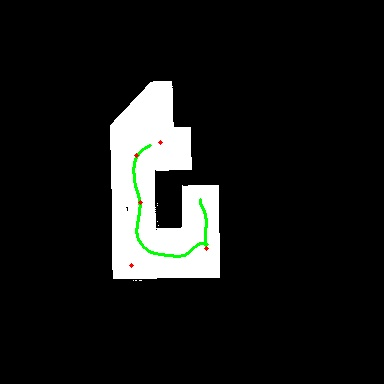
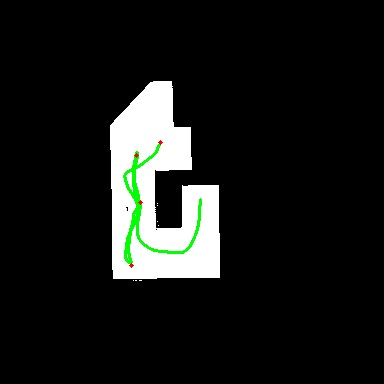
update

Changed region(s): [[0.3125, 0.375, 0.5625, 0.6875]]

diff --git a/turtlebot3_67301/scripts/assignment_2.py b/turtlebot3_67301/scripts/assignment_2.py
@@ -195,7 +195,6 @@ def subcribe_laser(agent_id=0, callback=None):
 def get_vel_publisher(agent_id=0):
     return rospy.Publisher('tb3_{}/cmd_vel'.format(agent_id), Twist, queue_size=10)
 
-
 def to_map_img_point(x, y):
     return int((y-global_map_origin[1])/0.05), int((x-global_map_origin[0])/0.05)
 
@@ -390,15 +389,16 @@ def competitive_cleaning(agent_id=0, path_based_dist=True):
                 mine.append(dirt_pos)
 
         goals = mine + his # first clean more confident dirts
-        for g in goals:
-            rival_goal = get_rival_goal(1-agent_id)
-            if rival_goal and distance_compute(g, np.array(rival_goal)) < 0.5 and closer_dirt_map[(g[0], g[1])] != agent_id:
-                # skip an impossible goal
-                rospy.loginfo('agent {} skipping impossible goal.'.format(agent_id))
-                continue
-            x, y = g
-            multi_move(x, y, agent_id)
-            update_dirt_list()
+        # for g in goals:
+        
+        rival_goal = get_rival_goal(1-agent_id)
+        if rival_goal and distance_compute(g, np.array(rival_goal)) < 0.5 and closer_dirt_map[(g[0], g[1])] != agent_id:
+            # skip an impossible goal
+            rospy.loginfo('agent {} skipping impossible goal.'.format(agent_id))
+            continue
+        x, y = g
+        multi_move(x, y, agent_id)
+        update_dirt_list()
         
 
 
